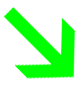
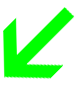
game 2 done

diff --git a/src/game2.js b/src/game2.js
@@ -2,68 +2,77 @@ var width = window.innerWidth // 981
 var height = window.innerHeight // 553
 
 var recordingImg
-var a1, a2, a3, a4
+var arrows = []
 var f1, f2, answer
-var answerPos
+var answerPos, arrowPos
 
 var options = []
 // game 2
 var wheel
 
-var correct, tryagain
-
 Game2 = {
+  showRecordingImg: function () { recordingImg.tween({ alpha: 1.0 }, 200) },
 
-  showNumber: function (index) {
-    var content
-    var num = spawn(width - 200, 0, content.toString())
-    num.timeout(function () { num.destroy() }, 2000);
-  },
-
-  showRecordingImg: function () {
-    recordingImg.tween({ alpha: 1.0 }, 200)
-  },
-
-  hideRecordingImg: function () {
-    recordingImg.tween({ alpha: 0.0 }, 200)
-  },
+  hideRecordingImg: function () { recordingImg.tween({ alpha: 0.0 }, 200) },
 
   // game 2
   gamestart: function () {
     Crafty.init(width, height)
     initQuestion()
-
     // wheel
     wheel = spawn(50, 50, "circle_base")
-    spawn(140, 110, options[0].toString()+"_copycopy")
-    spawn(290, 110, options[1].toString()+"_copycopy")
-    spawn(140, 280, options[2].toString()+"_copycopy")
-    spawn(290, 280, options[3].toString()+"_copycopy")
-    
-    a1 = spawn(50, 10, "a1")
-    //a1.attr({ alpha: 0.0 })
-    a2 = spawn(370, 10, "a2")
-    a2.attr({ alpha: 0.0 })
-    a3 = spawn(50, 400, "a3")
-    a3.attr({ alpha: 0.0 })
-    a4 = spawn(370, 400, "a4")
-    a4.attr({ alpha: 0.0 })
+    spawn(140, 110, options[0].toString() + "_copycopy")
+    spawn(290, 110, options[1].toString() + "_copycopy")
+    spawn(290, 280, options[2].toString() + "_copycopy")
+    spawn(140, 280, options[3].toString() + "_copycopy")
+
+    arrows[0] = spawn(50, 10, "a0")
+    arrows[0].attr({ alpha: 0.0 })
+    arrows[1] = spawn(370, 10, "a1")
+    arrows[1].attr({ alpha: 0.0 })
+    arrows[2] = spawn(370, 400, "a2")
+    arrows[2].attr({ alpha: 0.0 })
+    arrows[3] = spawn(50, 400, "a3")
+    arrows[3].attr({ alpha: 0.0 })
 
     // equation question
     spawn(500, 100, f1.toString() + "_")
     spawn(580, 100, "minus")
     spawn(660, 100, f2.toString() + "_copy")
     spawn(740, 100, "equal")
-    //spawn (820, 100, "1_copycopy")
 
     // noti
-    spawn (600, 300, "correct")
-    spawn (600, 300, "tryagain")
-
     recordingImg = spawn(400, 400, "recording")
     recordingImg.attr({ alpha: 0.0 })
   },
 
+  updateArrow: function (roll) {
+    if (roll < 5 && roll > -5) { arrowPos = -1 }
+    if (roll < -5 && roll > -45) { arrowPos = 0 }
+    if (roll < -45 && roll > -85) { arrowPos = 3 }
+    if (roll < 45 && roll > 5) { arrowPos = 1 }
+    if (roll < 85 && roll > 45) { arrowPos = 2 }
+    showArrow(arrowPos)
+  },
+
+  checkAnswer: function () {
+    if (arrowPos == answerPos) {
+      correct = spawn(600, 300, "correct")
+      spawn(820, 100, answer.toString())
+    }
+    else {
+      tryagain = spawn(600, 300, "tryagain")
+      tryagain.timeout(function () { tryagain.destroy() }, 1500);
+    }
+  }
+}
+
+function showArrow(a) {
+  arrows[0].attr({ alpha: 0.0 })
+  arrows[1].attr({ alpha: 0.0 })
+  arrows[2].attr({ alpha: 0.0 })
+  arrows[3].attr({ alpha: 0.0 })
+  if (a != -1) { arrows[a].attr({ alpha: 1.0 }) }
 }
 
 function getRandomInt(min, max) { return Math.floor(Math.random() * (max - min + 1)) + min }
@@ -75,36 +84,45 @@ function initQuestion() {
   f1 = getRandomInt(0, 9)
   answer = getRandomInt(0, f1)
   f2 = f1 - answer
-  var digits = [0,1,2,3,4,5,6,7,8,9]
+  var digits = [0, 1, 2, 3, 4, 5, 6, 7, 8, 9]
   digits.splice(answer, 1)
-  temp [0] = answer
-  var randomInt = getRandomInt (0, digits.length-1)
-  temp[1] = digits [randomInt]
+  temp[0] = answer
+  var randomInt = getRandomInt(0, digits.length - 1)
+  temp[1] = digits[randomInt]
   digits.splice(randomInt, 1)
 
-  randomInt = getRandomInt (0, digits.length-1)
-  temp[2] = digits [randomInt]
+  randomInt = getRandomInt(0, digits.length - 1)
+  temp[2] = digits[randomInt]
   digits.splice(randomInt, 1)
 
-  randomInt = getRandomInt (0, digits.length-1)
-  temp[3] = digits [randomInt]
+  randomInt = getRandomInt(0, digits.length - 1)
+  temp[3] = digits[randomInt]
   digits.splice(randomInt, 1)
 
-  var randomInt = getRandomInt (0, temp.length-1)
+  hyper.log (temp)
+  var randomInt = getRandomInt(0, temp.length - 1)
   options[0] = temp[randomInt]
-  answerPos = randomInt
   temp.splice(randomInt, 1)
 
-  randomInt = getRandomInt (0, temp.length-1)
+  randomInt = getRandomInt(0, temp.length - 1)
   options[1] = temp[randomInt]
   temp.splice(randomInt, 1)
 
-  randomInt = getRandomInt (0, temp.length-1)
+  randomInt = getRandomInt(0, temp.length - 1)
   options[2] = temp[randomInt]
   temp.splice(randomInt, 1)
 
-  randomInt = getRandomInt (0, temp.length-1)
+  randomInt = getRandomInt(0, temp.length - 1)
   options[3] = temp[randomInt]
   temp.splice(randomInt, 1)
+
+  for (var i = 0; i < options.length; i++) {
+    if (options[i] == answer) {
+      answerPos = i
+    }
+  }
+
+  hyper.log(options)
+  hyper.log(answerPos)
 }
 

diff --git a/game2.html b/game2.html
@@ -1,5 +1,6 @@
 <!DOCTYPE html>
 <html>
+
 <head>
 	<meta charset="utf-8" />
 	<meta name="format-detection" content="telephone=no" />
@@ -13,12 +14,13 @@
 </head>
 
 <body style="background-image:url(assets/background.png)">
-	<button onclick="connect()" >connect</button>
-	<button onclick="disconnect()" >disconnect</button>
+	<button onclick="connect()">connect</button>
+	<button onclick="disconnect()">disconnect</button>
 	<span id="StatusData">Press Connect to find the nearest SensorTag</span>
 	<span id="AccelerometerData">[Waiting for value]</span>
 	<span id="Result">Not recording</span>
 	<button onclick="location.href='index.html'"> BACK</button>
+	<button onclick="location.href='game2.html'"> restart</button>
 </body>
 
 <script>
@@ -57,7 +59,10 @@
 		if(data[0] == 1) {
 			recording = !recording
 			if (recording) {hyper.log("Start recording...")} 
-			else {hyper.log ("Done recording...")}
+			else {
+				Game2.checkAnswer()
+				Game2.updateArrow (0)
+				hyper.log ("Done recording...")}
 		}
 	}
 
@@ -88,6 +93,7 @@
 				var z = (values.z - z_offset)/0.26
 				var roll  = Math.atan(y / Math.sqrt (x*x + z*z)) * 180/Math.PI
 				record.push ([x, y, z])
+				Game2.updateArrow (roll)
 				string = "roll: " + roll.toFixed(0) 
 				displayValue('AccelerometerData', string)
 			}
@@ -114,4 +120,5 @@
 	function displayValue (elementId, value) { document.getElementById(elementId).innerHTML = value }
 
 </script>
+
 </html>
